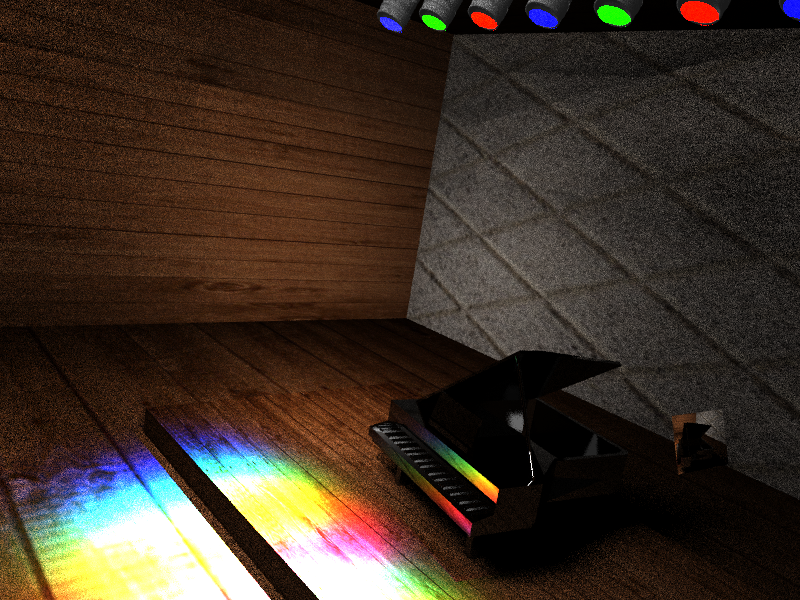
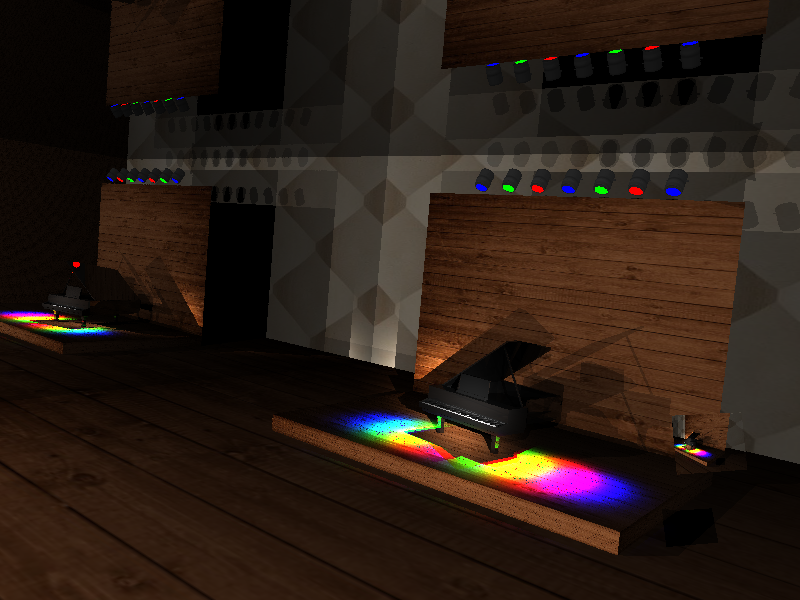
Fixed spotlights Changed backwall texture. etc etc

diff --git a/main/a_rendering_walls.cpp b/main/a_rendering_walls.cpp
@@ -43,6 +43,7 @@
 #include <rt/integrators/recraytrace.h>
 #include <rt/lights/arealight.h>
 #include <rt/lights/areaspotlight.h>
+#include <rt/lights/pointlight.h>
 #include <core/random.h>
 #include <rt/solids/disc.h>
 
@@ -50,7 +51,7 @@ using namespace rt;
 void a_rendering_walls()
 {
     Image img(800, 600);
-	int numSamples = 10;
+	int numSamples = 1;
 
 	// Texture* greentex = new ConstantTexture(RGBColor(0.f, .7f, 0.f));
 	// Texture* bluetex = new ConstantTexture(RGBColor(0.f, 0.f, 0.7f));
@@ -66,18 +67,18 @@ void a_rendering_walls()
 
 
 
+	Point cameraPostion = Point(-265, 83, 152);
 
-	//float xRotation = -15; //  0; // -15; //2_scene zoom //front view
-	//float yRotation = -40; //  -451; // -40;
- //   float zRotation = 0;
- //   Point cameraPostion = Point(-130, 85, 100);
-	//// Point cameraPostion = Point(-350, 80, 0);
+	float xRotation = -6.6f; // -15; //  0; // -15; //2_scene zoom //front view
+	float yRotation = -51; //  -451; // -40;
+    float zRotation = 0;
 
-	float xRotation = 0; // -15; //2_scene zoom //front view
-	float yRotation = -451; // -40;
-	float zRotation = 0;
-	// Point cameraPostion = Point(-130, 85, 100);
-	Point cameraPostion = Point(-350, 80, 0);
+	//float xRotation = 0; // -15; //2_scene zoom //front view
+	//float yRotation = -451; // -40;
+	//float zRotation = 0;
+	//Point cameraPostion = Point(-350, 80, 0);
+
+
     Vector upVector = Vector(0.0f, 1.0f, 0.0f);
     Vector forwardVector = Vector(0.0f, 0.0f, -1.0f);
 
@@ -116,7 +117,7 @@ void a_rendering_walls()
     FlatMaterial* woodtex_mat = new FlatMaterial(woodtex);
 
 	Point pianoCentre = Point(-15, 0, -70);
-    CombineMaterial* curtainMixedMat = new CombineMaterial();
+	CombineMaterial* curtainMixedMat = new CombineMaterial();
 	ImageTexture* curtaintex = new ImageTexture("models/curtain_tex.png", ImageTexture::REPEAT, ImageTexture::BILINEAR);
     FlatMaterial* curtaintex_mat = new FlatMaterial(curtaintex);
     curtainMixedMat->add(new FlatMaterial(curtaintex), .05);
@@ -145,16 +146,18 @@ void a_rendering_walls()
 
 
 	CombineMaterial* pianoBlackMat = new CombineMaterial();
-	pianoBlackMat->add(new PhongMaterial(blacktex1, 1), 0.5);
-	pianoBlackMat->add(new FuzzyMirrorMaterial(12.485f, 0.433f, 0.01f), 0.5);
+	Texture* impureBlacktex = new ConstantTexture(RGBColor(0.05f, 0.05f, 0.05f));
+	pianoBlackMat->add(new LambertianMaterial(blacktex1, impureBlacktex), 0.5);
+	pianoBlackMat->add(new PhongMaterial(blacktex1, 3), 0.2);
+	pianoBlackMat->add(new MirrorMaterial(12.485f, 0.433f), 0.35f);
 
 	CombineMaterial* pianoWhiteMat = new CombineMaterial();
 	pianoWhiteMat->add(new LambertianMaterial(blacktex1, whitetex), 0.5);
-	pianoWhiteMat->add(new FuzzyMirrorMaterial(12.485f, 0.433f, 0.05f), 0.5);
+	pianoWhiteMat->add(new FuzzyMirrorMaterial(12.485f, 0.433f, 0.1f), 0.5);
 
 	CombineMaterial* pianoGoldMat = new CombineMaterial();
-	pianoGoldMat->add(new LambertianMaterial(blacktex1, goldtex), 0.5);
-	pianoGoldMat->add(new PhongMaterial(goldtex, 10), 0.5);
+	pianoGoldMat->add(new LambertianMaterial(goldtex, goldtex), 0.5);
+	pianoGoldMat->add(new FuzzyMirrorMaterial(12.485f, 0.433f, 0.1f), 0.5);
 
     MirrorMaterial specsMirror(0.0f, 0.0f);
 
@@ -180,11 +183,11 @@ void a_rendering_walls()
     loadOBJ(scene, "models/", "1_piano.obj", matlib);
     //loadOBJ(scene, "models/", "1_piano_curtain.obj", matlib);
     loadOBJ(lightObj, "models/", "1_light_object.obj", matlib);
-    loadOBJ(specs, "models/", "1_specs_mirror.obj", matlib);
+    // loadOBJ(specs, "models/", "1_specs_mirror.obj", matlib);
 	lightObj->rebuildIndex();
 
 	scene->add(cameraQuad);
-    specs->rebuildIndex();
+    // specs->rebuildIndex();
     // scene->add(specs); //uncomment for specs
     // make instance etc
 
@@ -199,7 +202,7 @@ void a_rendering_walls()
     ImageTexture* stoneTex = new ImageTexture("models/stones_diffuse.png");
     LambertianMaterial stoneMaterial(blacktex, stoneTex);
 
-    ImageTexture* claddingTex = new ImageTexture("models/a_cladding_tex.png");
+    ImageTexture* claddingTex = new ImageTexture("models/a_cladding_tex2.png");
     ImageTexture* claddingTexBump = new ImageTexture("models/a_cladding_tex_gray.png");
     LambertianMaterial claddingMat(blacktex, claddingTex);
  
@@ -216,14 +219,19 @@ void a_rendering_walls()
     Point lowerRight(1,0,0);
     Point upperLeft(0,1,0);
     Point upperRight(1,1,0);
+
     TriangleMapper* bottomleft = new TriangleMapper(lowerLeft, lowerRight, upperLeft);
     TriangleMapper* topright = new TriangleMapper(upperRight, lowerRight, upperLeft);
 
+	float scale = 0.5f;
+	TriangleMapper* bottomleft1 = new TriangleMapper(lowerLeft * scale, lowerRight * scale, upperLeft * scale);
+	TriangleMapper* topright1 = new TriangleMapper(upperRight * scale, lowerRight * scale, upperLeft * scale);
+
     //stage cube
-    Point bs1(32, 7, -80);
-    Point bs2(32, 7, 80);
-    Point bs3(32, 0, -80);
-    Point bs4(32, 0, 80);
+    Point bs1(42, 7, -80);
+    Point bs2(42, 7, 80);
+    Point bs3(42, 0, -80);
+    Point bs4(42, 0, 80);
 
     Point fs1(-60, 7, -80);
     Point fs2(-60, 7, 80);
@@ -231,12 +239,12 @@ void a_rendering_walls()
     Point fs4(-60, 0, 80);
 
     //back stage wall
-    Point w1(32, 113, -80);
-    Point w2(32, 113, 80);
+    Point w1(42, 113, -80);
+    Point w2(42, 113, 80);
 
     //back stage wall TODO uncomment this later
-    // scene->add(new Triangle(bs1, bs2, w1, bottomleft, &woodMaterial));
-    // scene->add(new Triangle(w2, bs2, w1, topright, &woodMaterial));
+     scene->add(new Triangle(bs1, bs2, w1, bottomleft, &woodMaterial));
+     scene->add(new Triangle(w2, bs2, w1, topright, &woodMaterial));
 
     //stage front 
     scene->add(new Triangle(fs3, fs4, fs1, bottomleft, &woodMaterial));
@@ -246,14 +254,15 @@ void a_rendering_walls()
     scene->add(new Triangle(fs1, fs2, bs1, bottomleft, &woodMaterial));
     scene->add(new Triangle(bs2, fs2, bs1, topright, &woodMaterial));
 
-    //stage left 
-    scene->add(new Triangle(bs3, fs3, bs1, bottomleft, &woodMaterial));
-    scene->add(new Triangle(fs1, fs3, bs1, topright, &woodMaterial));
+	FuzzyMirrorMaterial *leftWallMirror = new FuzzyMirrorMaterial(12.485f, 0.433f, 0.001f);
 
-    //stage right 
-    scene->add(new Triangle(fs4, bs4, fs2, bottomleft, &woodMaterial));
-    scene->add(new Triangle(bs2, bs4, fs2, topright, &woodMaterial));
+	//stage left 
+	scene->add(new Triangle(bs3, fs3, bs1, bottomleft, &woodMaterial));
+	scene->add(new Triangle(fs1, fs3, bs1, topright, &woodMaterial));
 
+	//stage right 
+	scene->add(new Triangle(fs4, bs4, fs2, bottomleft, &woodMaterial));
+	scene->add(new Triangle(bs2, bs4, fs2, topright, &woodMaterial));
       //room cube
     Point b1(120, 145, -180);
     Point b2(120, 145, 180);
@@ -265,19 +274,20 @@ void a_rendering_walls()
     Point f3(-360, 0, -180);
     Point f4(-360, 0, 180);
 
+
     float bumbscale = 0.9f;
     //back wall
 
-    // scene->add(new Triangle(b3, b4, b1, bottomleft, &claddingMat));
-    // scene->add(new Triangle(b2, b4, b1, topright, &claddingMat));
+     scene->add(new Triangle(b3, b4, b1, bottomleft, &claddingMat));
+     scene->add(new Triangle(b2, b4, b1, topright, &claddingMat));
 
-    scene->add(new BumpMapper(
-            new Triangle(b3, b4, b1, bottomleft, &claddingMat), 
-    claddingTexBump, lowerLeft, upperLeft, lowerRight, bumbscale));
-    scene->add(
-        new BumpMapper(
-            new Triangle(b2, b4, b1, topright, &claddingMat),
-    claddingTexBump, upperRight, lowerRight, upperLeft, bumbscale));
+    //scene->add(new BumpMapper(
+    //        new Triangle(b3, b4, b1, bottomleft1, &claddingMat), 
+    //claddingTexBump, lowerLeft, upperLeft, lowerRight, bumbscale));
+    //scene->add(
+    //    new BumpMapper(
+    //        new Triangle(b2, b4, b1, topright1, &claddingMat),
+    //claddingTexBump, upperRight, lowerRight, upperLeft, bumbscale));
 
 
     // MirrorMaterial mirror(0.0f, 0.0f);
@@ -286,47 +296,61 @@ void a_rendering_walls()
     // scene->add(new Triangle(f2, f4, f1, topright, &mirror));
 
     //ceiling
-    scene->add(new Triangle(b1, b2, f1, bottomleft, &woodMaterial)); 
-    scene->add(new Triangle(f2, b2, f1, topright, &woodMaterial)); 
+    scene->add(new Triangle(b1, b2, f1, nullptr, leftWallMirror));
+    scene->add(new Triangle(f2, b2, f1, nullptr, leftWallMirror));
 
     //right wall
-    scene->add(new Triangle(b4, f4, b2, bottomleft, &woodMaterial)); 
-    scene->add(new Triangle(f2, f4, b2, topright, &woodMaterial)); 
+    scene->add(new Triangle(b4, f4, b2, nullptr, &woodMaterial));
+    scene->add(new Triangle(f2, f4, b2, nullptr, &woodMaterial));
 
     //left wall
-    scene->add(new Triangle(f3, b3, f1, bottomleft, &woodMaterial)); 
-    scene->add(new Triangle(b1, b3, f1, topright, &woodMaterial)); 
+    scene->add(new Triangle(f3, b3, f1, nullptr, leftWallMirror));
+    scene->add(new Triangle(b1, b3, f1, nullptr, leftWallMirror));
 
     //ground
     scene->add(new Triangle(f3, f4, b3, bottomleft, &woodMaterial)); 
     scene->add(new Triangle(b4, f4, b3, topright, &woodMaterial)); 
 
 	ConstantTexture* lightsrctex = new ConstantTexture(RGBColor(10, 10, 10));
-	Material* lightsource = new LambertianMaterial(lightsrctex, blacktex);
+	ConstantTexture* arealightsrctex = new ConstantTexture(RGBColor::rep(50));
+	Material* lightsource = new LambertianMaterial(arealightsrctex, blacktex);
 
 	Vector rightQuadVector = cross(forwardVector, upVector) * 100;
-	Vector forwardQuadVector = forwardVector * 100;
+	Vector forwardQuadVector = forwardVector * 20;
 	Quad* areaLight1 = new Quad((b1 + b2 + f1 + f2) * 0.25 - rightQuadVector / 2 - forwardQuadVector / 2, rightQuadVector, forwardQuadVector, nullptr, lightsource);
 	AreaLight als1(areaLight1);
-	scene->add(areaLight1);
+	// scene->add(areaLight1);
 
 
-	rightQuadVector = cross(forwardVector, upVector) * 10;
-	Vector upQuadVector = upVector * 10;
-	Quad* areaLight2 = new Quad(cameraPostion - forwardVector * 10, rightQuadVector, upQuadVector, nullptr, lightsource);
-	AreaLight als2(areaLight2);
-	scene->add(areaLight2);
+	// Vector areaLs2FV = (pianoCentre - cameraPostion + Vector(0, 0, 20)).normalize();
+	//Vector areaLs2RV = cross(areaLs2FV, upVector).normalize() * 30;
+	//Vector areaLs2UV = cross(areaLs2FV, areaLs2RV).normalize() * 30;
+
+	//Quad* areaLight2 = new Quad(cameraPostion - forwardVector * 10, areaLs2RV, areaLs2UV, nullptr, lightsource);
+	//AreaLight als2(areaLight2);
+	//scene->add(areaLight2);
 
     World world;
-	world.light.push_back(&als1);
-	world.light.push_back(&als2);
+
+	float pointLightInt = 100000;
+	// world.light.push_back(new PointLight(b1, RGBColor::rep(pointLightInt)));
+	// world.light.push_back(new PointLight(b2, RGBColor::rep(pointLightInt)));
+	// world.light.push_back(new PointLight(b3, RGBColor::rep(pointLightInt)));
+	// world.light.push_back(new PointLight(b4, RGBColor::rep(pointLightInt)));
+	world.light.push_back(new PointLight(f1 - (f1 - b4).normalize(), RGBColor::rep(pointLightInt)));
+	world.light.push_back(new PointLight(f2 - (f2 - b3).normalize(), RGBColor::rep(pointLightInt)));
+	world.light.push_back(new PointLight(f3 - (f3 - b2).normalize(), RGBColor::rep(pointLightInt)));
+	world.light.push_back(new PointLight(f4 - (f4 - b1).normalize(), RGBColor::rep(pointLightInt)));
+
+	// world.light.push_back(&als2);
 
     //directional light
     // DirectionalLight dirl(Vector(0.2f,-0.5f,0.5f).normalize(), RGBColor(RGBColor::rep(100)));
     // DirectionalLight dirl(forwardVector.normalize(), RGBColor(RGBColor::rep(100)));
 
     // world.light.push_back(&dirl);
-    world.light.push_back(new SpotLight(Point(-70, 70, 5), forwardVector.normalize(),  pi, 10.0f, RGBColor(RGBColor::rep(100000))));
+	Vector spotLightFV = (Point(-22.2028809, 23.1722298, -1.95628357) - sceneCameraCentre).normalize();// sceneCameraForwardVector.normalize() + sceneCameraRightVector.normalize() * 0.2 + sceneCameraUpVector.normalize() * 0.1;
+    world.light.push_back(new SpotLight(sceneCameraCentre + sceneCameraForwardVector.normalize() * 0.2, spotLightFV,  pi / 3, 300.0f, RGBColor(RGBColor::rep(1000000))));
 
 	int channel = 0;
 	int direction = 0;
@@ -342,24 +366,24 @@ void a_rendering_walls()
 		else
 			color = RGBColor(1, 0, 0);
 
-		Point currentSpotLightPoint = Point(23, 100, -70 + 16 * i);
-		Point currentPianoPoint = pianoCentre + Vector(0, 0, 16 * i);
+		Point currentSpotLightPoint = Point(63, 100, -70 + 16 * (i + 1)); // Point(50, 100, -70 + 16 * i);
+		Point currentPianoPoint = pianoCentre + Vector(20, 0, 16 * (i + 1));
 		Vector currentLightDirection = (currentPianoPoint - currentSpotLightPoint).normalize();
 
 		Instance* currentLightObj = new Instance(lightObj);
 		currentLightObj->translate(-1.0f * (originalSpotLightPoint - Point(0, 0, 0)));
 		currentLightObj->rotate(Vector(0, 0, 1), atan(currentLightDirection.x / currentLightDirection.y));
 		currentLightObj->translate(1.0f * (originalSpotLightPoint - Point(0, 0, 0)));
-		currentLightObj->translate(Vector(0, 0, 16 * i));
+		currentLightObj->translate(currentSpotLightPoint - originalSpotLightPoint);
 
 		ConstantTexture* currentLightTex = new ConstantTexture(color * 10000);
-		Material* currentSource = new LambertianMaterial(currentLightTex, goldtex);
-		Point discCentre = Point(-22.782f, 113.576, -43.059) + currentLightDirection * 0.5 + Vector(0, 0, 16 * i);
+		Material* currentSource = new LambertianMaterial(currentLightTex, blacktex);
+		Point discCentre = Point(35.73, 115.87, -43) + currentLightDirection * 0.5 + Vector(0, 0, 16 * i);
 		Disc* currentDisc = new Disc(discCentre, currentLightDirection, 3, nullptr, currentSource);
 		
-		AreaSpotLight* als1 = new AreaSpotLight(currentDisc, cross(forwardQuadVector, rightQuadVector).normalize(), pi / 4, 30, color * 100);
-		world.light.push_back(new SpotLight(discCentre, currentLightDirection, pi / 6, 100.0f, 1000000 * color));
+		// AreaSpotLight* als1 = new AreaSpotLight(currentDisc, cross(forwardQuadVector, rightQuadVector).normalize(), pi / 4, 30, color * 100);
 		// world.light.push_back(als1);
+		world.light.push_back(new SpotLight(discCentre, currentLightDirection, pi / 6, 200.0f, 1000000 * color));
 		scene->add(currentDisc);
 		scene->add(currentLightObj);
 	}

diff --git a/rt/integrators/recraytrace.h b/rt/integrators/recraytrace.h
@@ -14,7 +14,7 @@ class Ray;
 class RGBColor;
 
 class RecursiveRayTracingIntegrator : public Integrator {
-	const int maxRecursionDepth = 6;
+	const int maxRecursionDepth = 5;
 public:
     RecursiveRayTracingIntegrator(World* world) : Integrator(world) {}
     virtual RGBColor getRadiance(const Ray& ray, int depth = 0) const;
